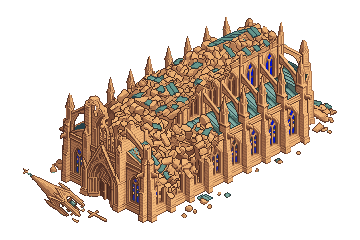
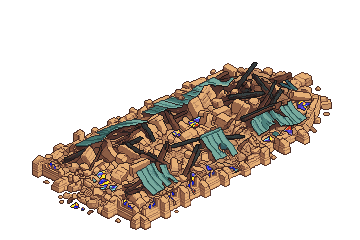
fix: the cathedral collapses to a flat heap, nothing left standing

diff --git a/docs/pixellab_structures_log.md b/docs/pixellab_structures_log.md
@@ -53,6 +53,8 @@ One row per building. Every call's job log is in the session scratchpad; the pro
 
 **Grand total: 678 generations** (2000 → 1322), across 44 calls. 26 of them went on rejected results (the first keep, two collapses).
 
+**Fix (2026-10-03, user review):** the cathedral's ruins left arches, pinnacles and wall stumps standing, so its fall did not read as a collapse. Re-edited with "completely destroyed and flattened… no walls, arches, buttresses, pinnacles, towers or spire left standing, nothing taller than a few blocks" (seed 311, 25). The result was a flat heap of stone, beams, copper sheets and glass, drawn 53 px high and 20 px right; moved (−20, +53). Total 703.
+
 ## Findings
 
 - **The composition reference is followed loosely.** PixelLab keeps the iso angle and the canvas position, but draws its own cottage: 62 px wide against the reference's 69, and 6–9 px taller. That reads fine on a cottage's footprint. Measure the anchor per pick; don't assume it.
